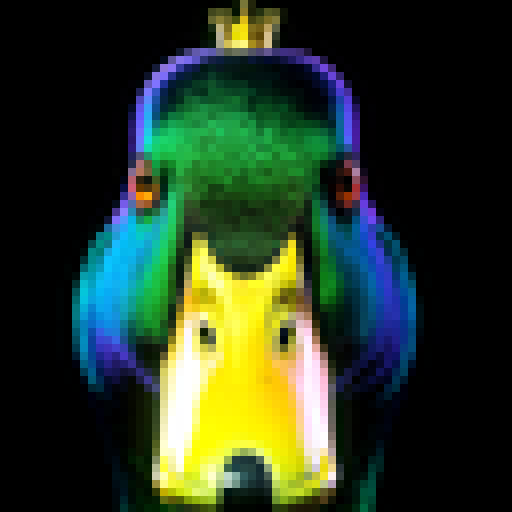
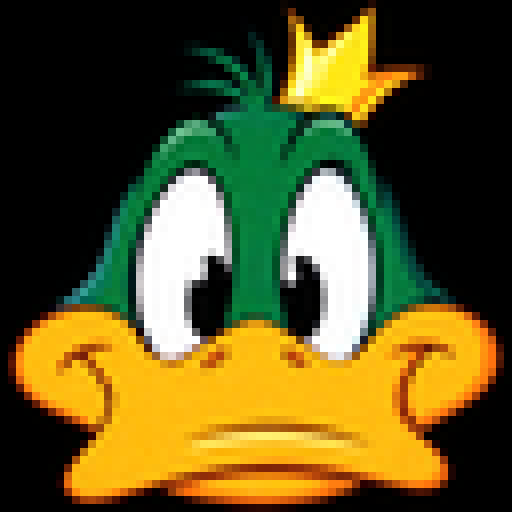
feat(avatar7): duck7 goes cartoon
A 1990s cel-shaded portrait (Krea 2 turbo, seed 11), flat colors and thick
outlines that survive the 64x64 reduction; the bill now opens as it speaks and
the big white eyes blink.

Claude-Session: https://claude.ai/code/session_018psEqKhy1nsvpEVEaWeeui

diff --git a/avatar7/README.md b/avatar7/README.md
@@ -148,7 +148,7 @@ random unless given; the actual seed is in the PNG metadata):
 | hal | `libre` | extreme close-up of a single glowing red camera lens eye set in a brushed aluminium panel, deep red glass iris with a bright yellow-white pinpoint center, concentric reflections, perfectly symmetric, centered and filling the frame, 1968 science fiction spaceship computer, pure black surroundings, high contrast |
 | glados | `libre` | giant robotic artificial intelligence hanging from the ceiling, sleek white and black mechanical head seen from the front with a single large glowing yellow eye in the center, articulated robotic neck, cables, sterile laboratory test chamber, head centered and filling the frame, dark background, high contrast, cinematic |
 | ada | `decopunk (Belle Époque futur)` | frontal symmetric portrait of a benevolent automaton woman, face of polished brass and ivory porcelain, gentle kind luminous amber eyes, serene soft smile, ornate brass filigree and whiplash curves framing the head like a halo, face centered and filling the frame, warm golden light, dark background, high contrast |
-| duck7 | none, seed 77 | frontal symmetric portrait of a legendary mallard duck head looking straight at the viewer, iridescent emerald green feathers, bright yellow bill, two glowing amber eyes, small golden crown on its head, faint circuit traces in the feathers, head centered and filling the frame, pure black background, high contrast, neon green and gold glow, 1995 cyberpunk computer graphics |
+| duck7 | none, seed 11 | cartoon mascot portrait of a cheeky mallard duck head facing the viewer, 1990s animated series style, bold thick black outlines, flat cel shading, big round expressive white eyes with black pupils and a mischievous half-lidded look, wide orange-yellow bill with a smug grin, glossy emerald green head, small tilted golden crown, symmetric, head centered and filling the frame, pure black background, high contrast, vivid saturated colors |
 
 A render takes about 25 to 50 s on Krea 2 turbo.
 
@@ -168,7 +168,7 @@ mush, crop tighter or re-render with more contrast.
 | --- | --- |
 | shodan, ada | `112 100 912 900` |
 | hal | `150 150 874 874` |
-| duck7 | `72 20 992 940` |
+| duck7 | none (full frame) |
 | glados | `192 150 832 790` |
 
 ### 3. Features
